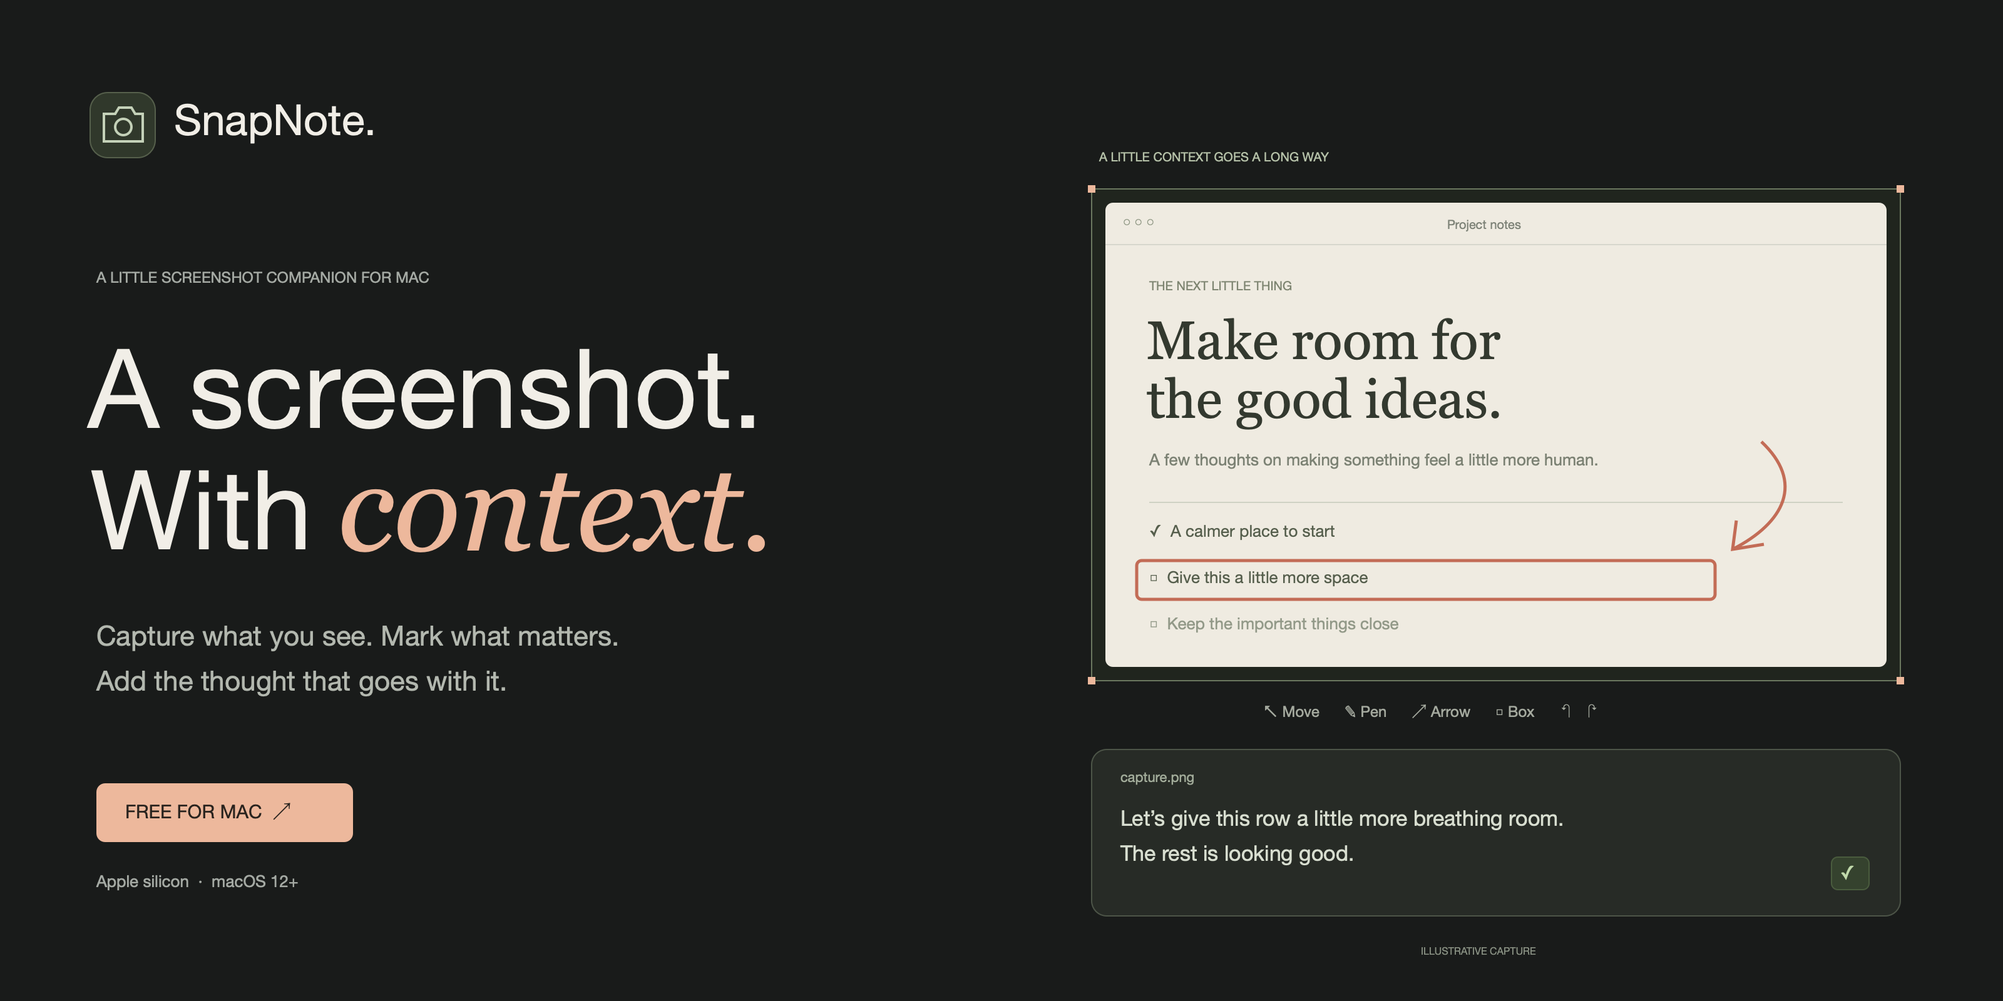
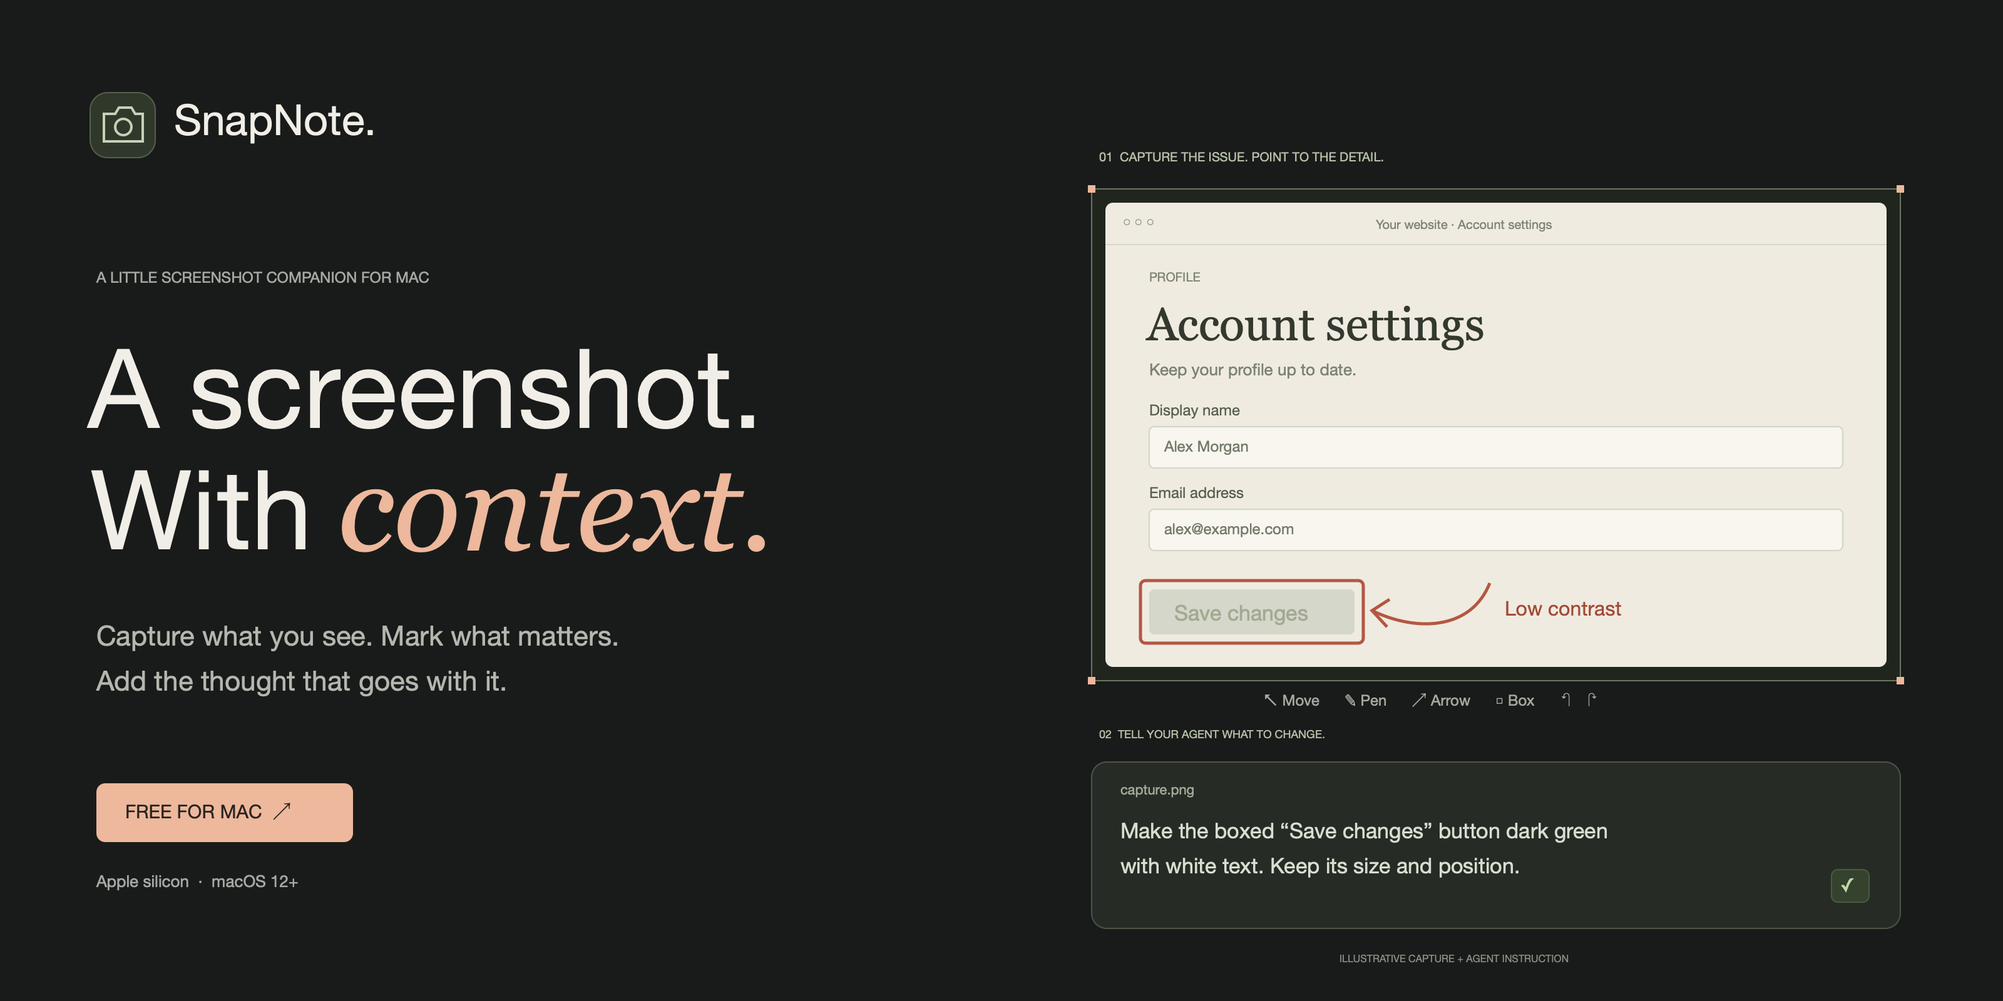
Clarify screenshot feedback and agent handoff with a concrete UI example

diff --git a/site/index.html b/site/index.html
@@ -38,42 +38,44 @@
         <div class="hero-copy">
           <p class="eyebrow"><span class="status-dot"></span>A little screenshot companion for Mac</p>
           <h1 id="hero-title">A screenshot.<br>With <em>context.</em></h1>
-          <p class="hero-description">Capture what you see. Mark what matters.<br class="desktop-break"> Add the thought that goes with it.</p>
+          <p class="hero-description">Capture what you see. Mark what matters.<br class="desktop-break"> Give your agent the picture and the context.</p>
           <a class="button download-button" href="https://github.com/Tsohnle95/SnapNote/releases/latest/download/SnapNote-macOS-arm64.dmg"><svg><use href="#download"/></svg>Download for Mac<span class="button-arrow">↗</span></a>
           <p class="download-meta">Free · Apple silicon · macOS 12+</p>
           <a class="quiet-link" href="#install">Installation notes <span>↗</span></a>
           <div class="shortcut-hint"><span class="shortcut-keys"><kbd>⌘</kbd><kbd>B</kbd></span><span>A shortcut. A screenshot. A little more clarity.</span></div>
         </div>
 
-        <figure class="hero-visual" aria-label="Illustrative SnapNote capture: a project note marked with a red arrow, with written context underneath">
-          <div class="capture-label"><span class="capture-cross">⌖</span> A LITTLE CONTEXT GOES A LONG WAY</div>
+        <figure class="hero-visual" aria-label="Example feedback for a coding agent: the entire Save changes button is boxed and labeled Low contrast. The note asks for a dark green button with white text, keeping its size and position.">
+          <div class="capture-label"><span class="example-number">01</span> CAPTURE THE ISSUE. POINT TO THE DETAIL.</div>
           <div class="capture-outline">
             <i class="corner top-left"></i><i class="corner top-right"></i><i class="corner bottom-left"></i><i class="corner bottom-right"></i>
             <div class="sample-window">
-              <div class="window-bar"><span class="traffic-lights"><i></i><i></i><i></i></span><span>Project notes</span><span class="window-more">•••</span></div>
+              <div class="window-bar"><span class="traffic-lights"><i></i><i></i><i></i></span><span>Your website · Account settings</span><span class="window-more">•••</span></div>
               <div class="sample-content">
-                <div class="sample-eyebrow">THE NEXT LITTLE THING</div>
-                <div class="sample-title">Make room for<br>the good ideas.</div>
-                <p>A few thoughts on making something<br>feel a little more human.</p>
-                <div class="sample-divider"></div>
-                <div class="sample-row"><span class="sample-check">✓</span>A calmer place to start<span class="sample-tag">Done</span></div>
-                <div class="sample-row"><span class="sample-check empty"></span>Give this a little more space<span class="sample-tag next">Up next</span></div>
-                <div class="sample-row last"><span class="sample-check empty"></span>Keep the important things close</div>
+                <div class="sample-eyebrow">PROFILE</div>
+                <div class="sample-title">Account settings</div>
+                <p>Keep your profile up to date.</p>
+                <div class="sample-field"><span>Display name</span><div>Alex Morgan</div></div>
+                <div class="sample-field"><span>Email address</span><div>alex@example.com</div></div>
+                <div class="demo-action-row">
+                  <div class="marked-target"><span class="sample-save">Save changes</span><span class="target-box" aria-hidden="true"></span></div>
+                  <div class="issue-callout"><svg viewBox="0 0 64 32" aria-hidden="true"><path d="M61 5C53 28 30 28 4 17m11-7L3 17l12 7"/></svg><span>Low contrast</span></div>
+                </div>
               </div>
-              <svg class="annotation" viewBox="0 0 500 370" fill="none" aria-hidden="true"><path d="M81 279c66-8 211-7 315-1l-2 35c-107 5-213 7-312-1Z"/><path d="M428 174c27 24 22 70-14 95m-2-23 1 25 24-5"/></svg>
             </div>
           </div>
           <div class="demo-tools" aria-hidden="true"><span>↖ <b>Move</b></span><span>✎ Pen</span><span class="active">↗ Arrow</span><span>▢ Box</span><span class="tool-divider"></span><span>↶</span><span>↷</span></div>
+          <div class="capture-label instruction-label"><span class="example-number">02</span> TELL YOUR AGENT WHAT TO CHANGE.</div>
           <div class="demo-context">
             <div class="context-top"><span class="small-camera"><svg><use href="#camera"/></svg></span><span>capture.png</span><span class="local-indicator"><i></i> Saved on your Mac</span></div>
-            <p>Let’s give this row a little more breathing room.<br>The rest is looking good.</p>
-            <div class="context-bottom"><span>THE THOUGHT BEHIND THE SCREENSHOT</span><span class="demo-save">✓</span></div>
+            <p>Make the boxed “Save changes” button dark green with white text. Keep its size and position.</p>
+            <div class="context-bottom"><span>COPY IMAGE PATH + NOTE WITH ⌘ C</span><span class="demo-save">✓</span></div>
           </div>
-          <figcaption>Illustrative capture. Your screenshot, your words.</figcaption>
+          <figcaption>Illustrative example: a specific detail + a clear instruction.</figcaption>
         </figure>
       </section>
 
-      <div class="principles wrap" aria-label="Product highlights"><span><i></i>Made for the menu bar</span><span><i></i>Everything stays on your Mac</span><span><i></i>Free to download</span></div>
+      <div class="principles wrap" aria-label="Product highlights"><span><i></i>About 13 MB at idle</span><span><i></i>Everything stays on your Mac</span><span><i></i>Free to download</span></div>
 
       <section class="workflow wrap" id="how-it-works" aria-labelledby="workflow-title">
         <div class="section-heading"><p class="eyebrow">FROM “LOOK AT THIS” TO “HERE’S WHAT I MEAN”</p><h2 id="workflow-title">Less explaining.<br><em>More understanding.</em></h2><p>For the bug you spotted, the idea you want to keep,<br class="desktop-break"> or the tiny detail that’s easier to show.</p></div>
@@ -84,9 +86,14 @@
         </div>
       </section>
 
+      <section class="agent-section wrap" aria-labelledby="agent-title">
+        <div class="agent-copy"><p class="eyebrow">LESS BACK-AND-FORTH WITH YOUR CODING AGENT</p><h2 id="agent-title">Show the detail.<br><em>Say what to change.</em></h2><p>A marked screenshot gives your agent a precise target. Your note explains the change you want. Keep both together, so the task is clear from the start.</p><p>Press <kbd>⌘ C</kbd> in SnapNote to copy the screenshot’s local path and your note, then paste them into your coding agent. An agent with access to your Mac’s files can open the image and use the visual context.</p><p class="agent-attachment-note">Using a web chat or a remote agent? Attach the saved image alongside your note.</p></div>
+        <div class="agent-payload" aria-label="Example of the image reference and instruction copied from SnapNote"><div class="payload-heading"><span class="example-number">03</span><span>PASTE INTO YOUR AGENT</span><span class="payload-shortcut">⌘ V</span></div><div class="payload-image"><svg><use href="#camera"/></svg><div><strong>The screenshot you marked</strong><code>/Users/you/screenshots/…/capture.png</code></div></div><blockquote>Make the boxed “Save changes” button dark green with white text. Keep its size and position.</blockquote><div class="payload-outcome"><span>↗</span><p><strong>Where to look. What to change.</strong><br>The image supplies the visual detail. The note supplies your intent.</p></div><p class="payload-caption">Example handoff · You choose where to paste it.</p></div>
+      </section>
+
       <section class="local-section wrap" aria-labelledby="local-title">
         <div class="local-illustration" aria-hidden="true"><div class="file-stack back"></div><div class="file-stack middle"></div><div class="file-stack front"><span class="file-camera"><svg><use href="#camera"/></svg></span><span>One moment.<br>Kept together.</span><div class="file-types"><span>PNG</span><span>NOTE</span></div></div><div class="local-stamp">ON YOUR MAC.<br>IN YOUR HANDS.</div></div>
-        <div class="local-copy"><p class="eyebrow">A SMALL APP. A SIMPLE PROMISE.</p><h2 id="local-title">Your screenshots.<br><em>Still yours.</em></h2><p>No account to make. No uploads in the background. Your captures and notes live in a folder on your Mac, ready whenever you need them.</p><a class="text-link" href="https://github.com/Tsohnle95/SnapNote">Take a look at the source <svg><use href="#arrow"/></svg></a></div>
+        <div class="local-copy"><p class="eyebrow">A SMALL APP. A SIMPLE PROMISE.</p><h2 id="local-title">Your screenshots.<br><em>Still yours.</em></h2><p>No account to make. No uploads in the background. Your captures and notes live in a folder on your Mac, ready whenever you need them.</p><div class="footprint"><strong>≈13 <small>MB</small></strong><div>Small while it waits.<span>The editor opens only when you need it.</span></div></div><p class="footprint-note">Approximate idle memory, measured on an M3 Pro Mac. Editing a capture uses more.</p><a class="text-link" href="https://github.com/Tsohnle95/SnapNote">Take a look at the source <svg><use href="#arrow"/></svg></a></div>
       </section>
 
       <section class="install-section wrap" id="install" aria-labelledby="install-title">

diff --git a/site/styles.css b/site/styles.css
@@ -366,60 +366,45 @@ kbd {
   color:#7b8172;
   margin:13px 0 21px
 }
-.sample-divider {
-  height:1px;
-  background:#cfd2c3;
-  margin-bottom:8px
+.sample-field {
+  margin-top: 13px;
+  font-size: 10px;
+  color: #555f4b;
 }
-.sample-row {
-  height:35px;
-  display:flex;
-  align-items:center;
-  gap:9px;
-  font-size:10px;
-  color:#555f4b
+.sample-field > span { display: block; margin-bottom: 6px; }
+.sample-field > div {
+  padding: 10px 12px;
+  background: #f8f6ef;
+  border: 1px solid #d2d4c8;
+  border-radius: 4px;
+  color: #727b67;
 }
-.sample-check {
-  width:11px;
-  height:11px;
-  display:grid;
-  place-items:center;
-  background:#899879;
-  color:#fff;
-  font-size:8px;
-  border:1px solid #899879;
-  border-radius:3px
-}
-.sample-check.empty {
-  background:none;
-  border-color:#a6ae97
-}
-.sample-tag {
-  margin-left:auto;
-  background:#dbe0cc;
-  border-radius:3px;
-  padding:3px 5px;
-  color:#768464;
-  font-size:7px
-}
-.sample-tag.next {
-  background:#e7dbc5;
-  color:#a68b5f
-}
-.sample-row.last {
-  color:#929987
-}
-.annotation {
-  position:absolute;
-  inset:0;
-  width:100%;
-  height:100%;
-  pointer-events:none;
-  stroke:#c56852;
-  stroke-width:2.2;
-  stroke-linecap:round;
-  stroke-linejoin:round
-}
+.demo-action-row { display: flex; align-items: center; gap: 8px; margin: 24px 0 7px; }
+.marked-target { position: relative; display: inline-flex; flex-shrink: 0; }
+.sample-save { padding: 11px 17px; background: #d4d7c8; color: #a2aa92; border-radius: 4px; font-size: 11px; white-space: nowrap; }
+.target-box { position: absolute; inset: -6px; border: 2px solid #b6523d; border-radius: 4px; transform: rotate(-1deg); pointer-events: none; }
+.issue-callout { display: flex; align-items: center; gap: 4px; color: #a54331; font-size: 10px; white-space: nowrap; }
+.issue-callout svg { width: 51px; height: 30px; stroke-width: 2; flex-shrink: 0; }
+.example-number { font: 9px ui-monospace, monospace; display: inline-grid; place-items: center; width: 23px; height: 23px; border: 1px solid #6a735e; border-radius: 50%; color: var(--accent); flex-shrink: 0; }
+.instruction-label { margin-top: 17px; margin-bottom: 12px; }
+.agent-section { display: grid; grid-template-columns: 1fr 1fr; align-items: center; gap: 70px; padding-block: 70px 85px; border-top: 1px solid var(--line); }
+.agent-copy .eyebrow { font-size: 9px; margin-bottom: 21px; }
+.agent-copy > p:not(.eyebrow) { font-size: 13px; color: var(--muted); line-height: 1.9; margin: 22px 0 0; max-width: 430px; }
+.agent-copy > p.agent-attachment-note { font-size: 11px; color: #bac5ae; }
+.agent-payload { background: #222720; border: 1px solid #48513f; border-radius: 12px; padding: 25px; }
+.payload-heading { display: flex; align-items: center; gap: 10px; font: 9px ui-monospace, monospace; color: #b6c2aa; letter-spacing: .6px; }
+.payload-shortcut { margin-left: auto; font-size: 12px; color: var(--accent); }
+.payload-image { margin-top: 24px; display: flex; align-items: center; gap: 13px; }
+.payload-image > svg { flex-shrink: 0; width: 29px; height: 29px; color: #b9c9ab; }
+.payload-image > div { min-width: 0; }
+.payload-image strong { display: block; font-size: 12px; font-weight: 400; color: #cdd6c4; margin-bottom: 8px; }
+.payload-image code { display: block; font-size: 9px; border: 0; background: none; color: #8f9c83; padding: 0; overflow-wrap: anywhere; }
+.agent-payload blockquote { margin: 22px 0; padding: 16px 0 16px 16px; border-left: 2px solid var(--accent); font-size: 15px; line-height: 1.8; color: #e0e6d8; }
+.payload-outcome { display: flex; gap: 11px; align-items: flex-start; border-top: 1px solid #414b37; padding-top: 17px; color: #a5b698; }
+.payload-outcome > span { color: var(--accent); font-size: 20px; }
+.payload-outcome p { margin: 0; font-size: 11px; line-height: 1.8; }
+.payload-outcome strong { color: #d0d9c7; font-weight: 400; }
+.payload-caption { font-size: 9px; color: #8f9c83; margin: 19px 0 0; }
 .demo-tools {
   display:flex;
   align-items:center;
@@ -993,9 +978,6 @@ code {
   .sample-title {
     font-size:30px
   }
-  .sample-row {
-    font-size:8px
-  }
   .demo-tools {
     gap:13px
   }
@@ -1074,9 +1056,6 @@ code {
   }
   .sample-title {
     font-size:35px
-  }
-  .sample-row {
-    font-size:10px
   }
   .demo-context>p {
     font-size:12px
@@ -1262,9 +1241,6 @@ code {
   .sample-title {
     font-size:30px
   }
-  .sample-row {
-    font-size:8px
-  }
   .demo-tools {
     gap:12px;
     font-size:8px
@@ -1296,3 +1272,42 @@ code {
     font-size:30px
   }
 }
+
+@media (max-width: 1050px) {
+  .agent-section { gap: 32px; }
+  .issue-callout { font-size: 9px; }
+  .issue-callout svg { width: 32px; }
+  .sample-save { padding-inline: 12px; }
+}
+@media (max-width: 760px) {
+  .agent-section { grid-template-columns: 1fr; padding-block: 48px; gap: 30px; }
+  .agent-copy > p:not(.eyebrow) { max-width: none; }
+  .agent-payload { padding: 22px; }
+  .sample-title { font-size: 31px; }
+  .sample-content { padding: 25px 24px 22px; }
+  .capture-label { font-size: 8px; letter-spacing: .65px; }
+  .sample-save { padding-inline: 14px; }
+  .issue-callout { font-size: 9px; }
+  .issue-callout svg { width: 39px; }
+}
+@media (max-width: 370px) {
+  .sample-title { font-size: 27px; }
+  .sample-content { padding-inline: 20px; }
+  .sample-save { padding-inline: 11px; font-size: 10px; }
+  .issue-callout svg { width: 30px; }
+  .capture-label { font-size: 7px; }
+}
+.footprint {
+  display: flex;
+  align-items: center;
+  gap: 21px;
+  margin-top: 25px;
+  padding-top: 23px;
+  border-top: 1px solid var(--line);
+}
+.footprint > strong { color: var(--green); font-size: 43px; letter-spacing: -2px; font-weight: 400; white-space: nowrap; }
+.footprint small { font-size: 14px; letter-spacing: 0; }
+.footprint > div { font-size: 13px; line-height: 1.6; color: #cdd6c4; }
+.footprint > div > span { display: block; font-size: 10px; color: var(--muted); }
+.local-copy > p.footprint-note { font-size: 9px; line-height: 1.7; margin-top: 11px; max-width: 370px; }
+@media (max-width: 370px) { .footprint { gap: 15px; } .footprint > strong { font-size: 37px; } }

diff --git a/scripts/generate-release-art.swift b/scripts/generate-release-art.swift
@@ -54,41 +54,46 @@ box(77, 626, 205, 47, 0xefb699, radius: 7)
 text("FREE FOR MAC  ↗", 100, 640, 15, 0x29231e)
 text("Apple silicon  ·  macOS 12+", 77, 697, 13, 0xa5aaa4)
 
-// A static illustrative capture, matching the website's product example.
+// A concrete UI issue and an instruction that identifies the exact change.
 box(872, 151, 646, 393, 0x20251e, border: 0x6b795d)
 for (x, y) in [(869.0, 148.0), (1515.0, 148.0), (869.0, 541.0), (1515.0, 541.0)] {
     box(x, y, 6, 6, 0xefb699)
 }
-text("A LITTLE CONTEXT GOES A LONG WAY", 878, 119, 10, 0xb6c3a7)
+text("01  CAPTURE THE ISSUE. POINT TO THE DETAIL.", 878, 119, 10, 0xb6c3a7)
 box(883, 162, 624, 371, 0xefebe0, radius: 6)
 box(883, 195, 624, 1, 0xd7d6cb)
 text("○ ○ ○", 897, 171, 11, 0x8e9782)
-text("Project notes", 1156, 173, 10, 0x7c8175)
-text("THE NEXT LITTLE THING", 918, 222, 10, 0x7d856f)
-text("Make room for", 916, 248, 43, 0x33392e, font: "Georgia")
-text("the good ideas.", 916, 295, 43, 0x33392e, font: "Georgia")
-text("A few thoughts on making something feel a little more human.", 918, 360, 13, 0x7b8172)
-box(918, 401, 554, 1, 0xcfd2c3)
-text("✓  A calmer place to start", 918, 417, 13, 0x555f4b)
-text("□  Give this a little more space", 918, 454, 13, 0x555f4b)
-text("□  Keep the important things close", 918, 491, 13, 0x929987)
-let mark = NSBezierPath(roundedRect: NSRect(x: 908, y: 448, width: 462, height: 31), xRadius: 4, yRadius: 4)
-color(0xc56852).setStroke(); mark.lineWidth = 2.5; mark.stroke()
+text("Your website · Account settings", 1099, 173, 10, 0x7c8175)
+text("PROFILE", 918, 215, 10, 0x7d856f)
+text("Account settings", 916, 238, 37, 0x33392e, font: "Georgia")
+text("Keep your profile up to date.", 918, 288, 13, 0x7b8172)
+text("Display name", 918, 321, 12, 0x555f4b)
+box(918, 341, 554, 33, 0xf8f6ef, radius: 4, border: 0xd2d4c8)
+text("Alex Morgan", 930, 350, 12, 0x727b67)
+text("Email address", 918, 387, 12, 0x555f4b)
+box(918, 407, 554, 33, 0xf8f6ef, radius: 4, border: 0xd2d4c8)
+text("alex@example.com", 930, 416, 12, 0x727b67)
+box(918, 471, 164, 36, 0xd4d7c8, radius: 4)
+text("Save changes", 938, 480, 17, 0xa2aa92)
+let mark = NSBezierPath(roundedRect: NSRect(x: 911, y: 464, width: 178, height: 50), xRadius: 4, yRadius: 4)
+color(0xb6523d).setStroke(); mark.lineWidth = 2.5; mark.stroke()
 let arrow = NSBezierPath()
-arrow.move(to: NSPoint(x: 1407, y: 353))
-arrow.curve(to: NSPoint(x: 1384, y: 439), controlPoint1: NSPoint(x: 1442, y: 386), controlPoint2: NSPoint(x: 1425, y: 418))
-arrow.move(to: NSPoint(x: 1387, y: 416))
-arrow.line(to: NSPoint(x: 1384, y: 439))
-arrow.line(to: NSPoint(x: 1409, y: 435))
+arrow.move(to: NSPoint(x: 1190, y: 466))
+arrow.curve(to: NSPoint(x: 1096, y: 488), controlPoint1: NSPoint(x: 1175, y: 504), controlPoint2: NSPoint(x: 1131, y: 505))
+arrow.move(to: NSPoint(x: 1110, y: 479))
+arrow.line(to: NSPoint(x: 1096, y: 488))
+arrow.line(to: NSPoint(x: 1108, y: 501))
 arrow.lineWidth = 2.5; arrow.stroke()
-text("↖ Move      ✎ Pen      ↗ Arrow      □ Box      ↶   ↷", 1009, 562, 12, 0xa5aa9e)
-box(872, 599, 646, 133, 0x272b26, radius: 12, border: 0x4d5547)
-text("capture.png", 895, 615, 11, 0xa2ad99)
-text("Let’s give this row a little more breathing room.", 895, 644, 17, 0xd8decf)
-text("The rest is looking good.", 895, 672, 17, 0xd8decf)
-box(1463, 685, 30, 26, 0x35432d, radius: 5, border: 0x4a5d3c)
-text("✓", 1470, 689, 15, 0xc1daa8)
-text("ILLUSTRATIVE CAPTURE", 1135, 755, 8, 0x8b9384)
+text("Low contrast", 1202, 477, 16, 0xa54331)
+text("↖ Move      ✎ Pen      ↗ Arrow      □ Box      ↶   ↷", 1009, 553, 12, 0xa5aa9e)
+text("02  TELL YOUR AGENT WHAT TO CHANGE.", 878, 581, 9, 0xb6c3a7)
+box(872, 609, 646, 133, 0x272b26, radius: 12, border: 0x4d5547)
+text("capture.png", 895, 625, 11, 0xa2ad99)
+text("Make the boxed “Save changes” button dark green", 895, 654, 17, 0xd8decf)
+text("with white text. Keep its size and position.", 895, 682, 17, 0xd8decf)
+box(1463, 695, 30, 26, 0x35432d, radius: 5, border: 0x4a5d3c)
+text("✓", 1470, 699, 15, 0xc1daa8)
+text("ILLUSTRATIVE CAPTURE + AGENT INSTRUCTION", 1070, 761, 8, 0x8b9384)
 canvas.unlockFocus()
 guard let tiff = canvas.tiffRepresentation, let bitmap = NSBitmapImageRep(data: tiff),
       let png = bitmap.representation(using: .png, properties: [:]) else {

diff --git a/docs/performance.md b/docs/performance.md
@@ -75,3 +75,7 @@ Fresh compact-popup samples (same 1600×1000 fixture, `sample` started three sec
 These are early samples, not settled idle measurements. Both helpers exited automatically after sampling. Early footprint remains substantial, reinforcing the separate short-lived helper design; it must not be described as a tiny resident GUI. Renderer rankings vary with measurement timing, as the earlier settled measurements demonstrate.
 
 The final compact-popup build resident (PID 29785), with no helper running, measured **14.2M physical footprint**, **14.4M peak**, **50,480 KiB RSS**, and **0.0% CPU**. Its sampled main thread waited for native AppKit events.
+
+## Landing-page footprint check — 2026-10-23
+
+The installed v0.1.0 resident (PID 13293), with no capture editor running, measured **12.8M physical footprint** and **13.0M peak** using `sample 13293 1`. A nearby `ps` reading showed **30,480 KiB RSS**. The landing page rounds the physical footprint to **about 13 MB at idle**, states the M3 Pro measurement context, and notes that editing uses more memory. This is an observed idle value, not a fixed memory limit or an editor footprint claim.

diff --git a/docs/releases/v0.1.0.md b/docs/releases/v0.1.0.md
@@ -1,4 +1,4 @@
-![SnapNote — A screenshot. With context.](https://raw.githubusercontent.com/Tsohnle95/SnapNote/v0.1.0/site/assets/snapnote-banner.png)
+![SnapNote — A screenshot. With context.](https://raw.githubusercontent.com/Tsohnle95/SnapNote/main/site/assets/snapnote-banner.png)
 
 ## Download SnapNote
 
